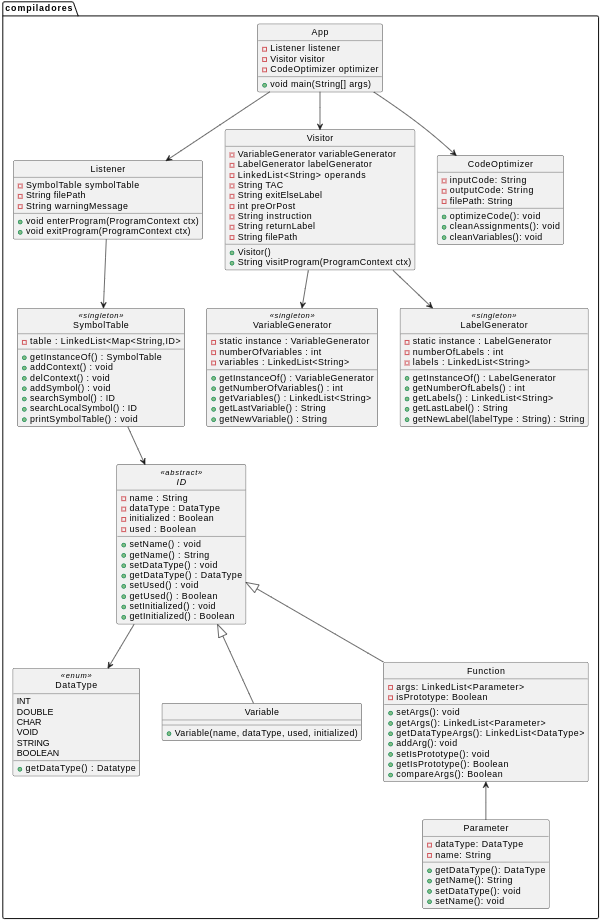
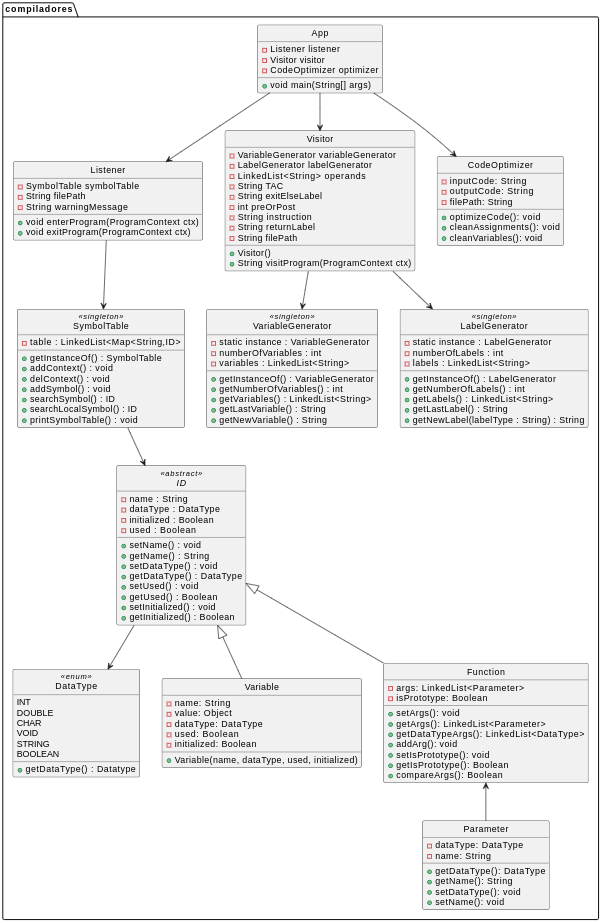
fixing umls

diff --git a/README.md b/README.md
@@ -24,13 +24,13 @@ En resumen, dado un código fuente de entrada el programa deberá generar dos ar
 
 ### Implementacion
 Para el desarrollo del compilador se llevo a cabo una implementacion separada en diferentes partes, siguiendo la siguiente hoja de ruta:
- 
-1 - Reglas lexicas y gramaticales.
-2 - Implementacion de tabla de simbolos.
-3 - Configuracion de Listener.
-4 - Configuracion de Visitor.
-5 - Generacion de codigo intermedio (ThreeAddressCode).
-6 - Optimizacion de codigo intermedio.
+
+1. Reglas lexicas y gramaticales.
+2. Implementacion de tabla de simbolos.
+3. Configuracion de Listener.
+4. Configuracion de Visitor.
+5. Generacion de codigo intermedio (ThreeAddressCode).
+6. Optimizacion de codigo intermedio.
 
 ![](./imgs/AppUML.png)
 
